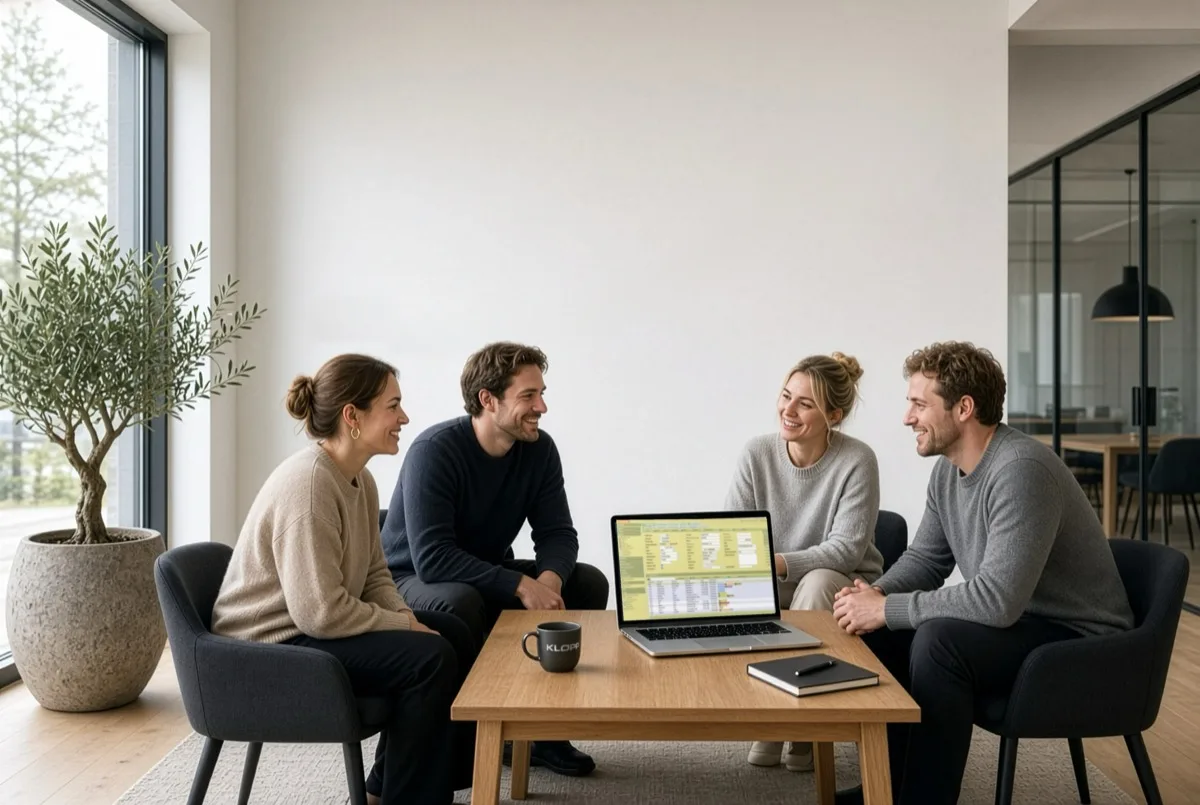
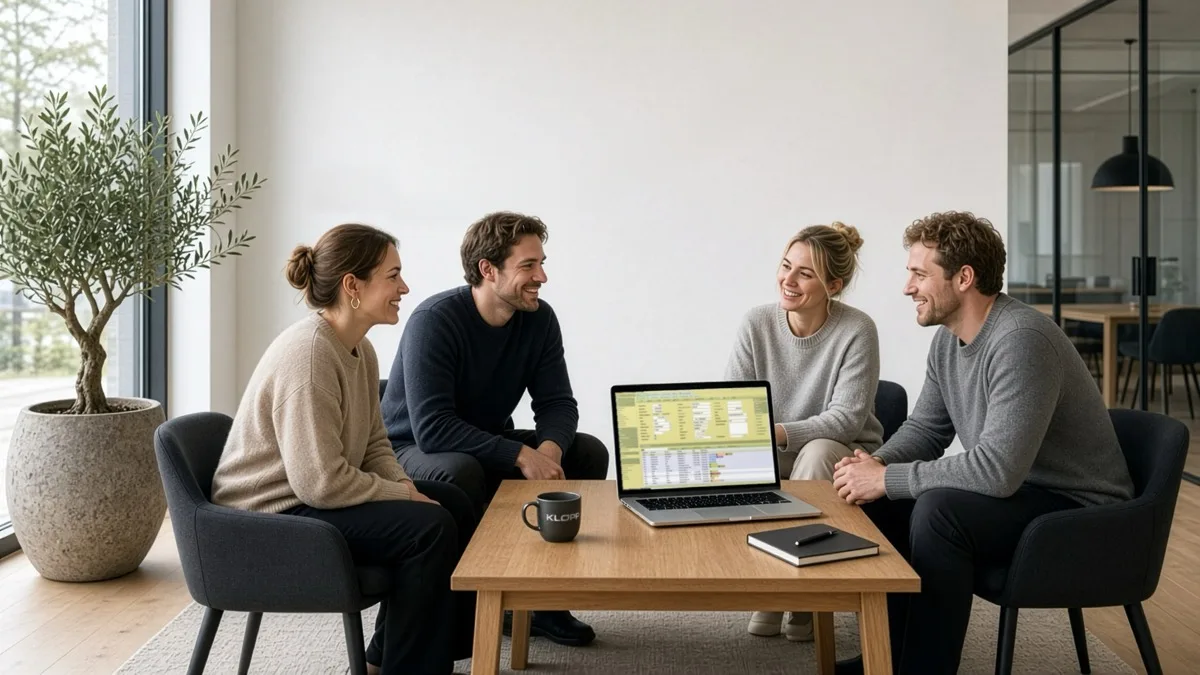
Front page image 2027 as 16:9 (from V17); originals kept in assets/img/original, web versions 800/1200/1600

diff --git a/index.html b/index.html
@@ -444,7 +444,7 @@
                     <div class="masthead-media">
                         <picture>
                             <source srcset="assets/img/klopp-forsidebilde-2027-800.webp 800w, assets/img/klopp-forsidebilde-2027-1200.webp 1200w, assets/img/klopp-forsidebilde-2027-1600.webp 1600w" sizes="(max-width: 1160px) 100vw, 1112px" type="image/webp" />
-                            <img src="assets/img/klopp-forsidebilde-2027-1200.jpg" srcset="assets/img/klopp-forsidebilde-2027-800.jpg 800w, assets/img/klopp-forsidebilde-2027-1200.jpg 1200w, assets/img/klopp-forsidebilde-2027-1600.jpg 1600w" sizes="(max-width: 1160px) 100vw, 1112px" alt="Fire kolleger rundt et bord i et lyst kontor, med Regweb medlemssystem åpent på en laptop og Klopp-logo på kaffekoppen" width="1600" height="1074" fetchpriority="high" />
+                            <img src="assets/img/klopp-forsidebilde-2027-1200.jpg" srcset="assets/img/klopp-forsidebilde-2027-800.jpg 800w, assets/img/klopp-forsidebilde-2027-1200.jpg 1200w, assets/img/klopp-forsidebilde-2027-1600.jpg 1600w" sizes="(max-width: 1160px) 100vw, 1112px" alt="Fire kolleger rundt et bord i et lyst kontor, med Regweb medlemssystem åpent på en laptop og Klopp-logo på kaffekoppen" width="1600" height="900" fetchpriority="high" />
                         </picture>
                     </div>
                 </div>
